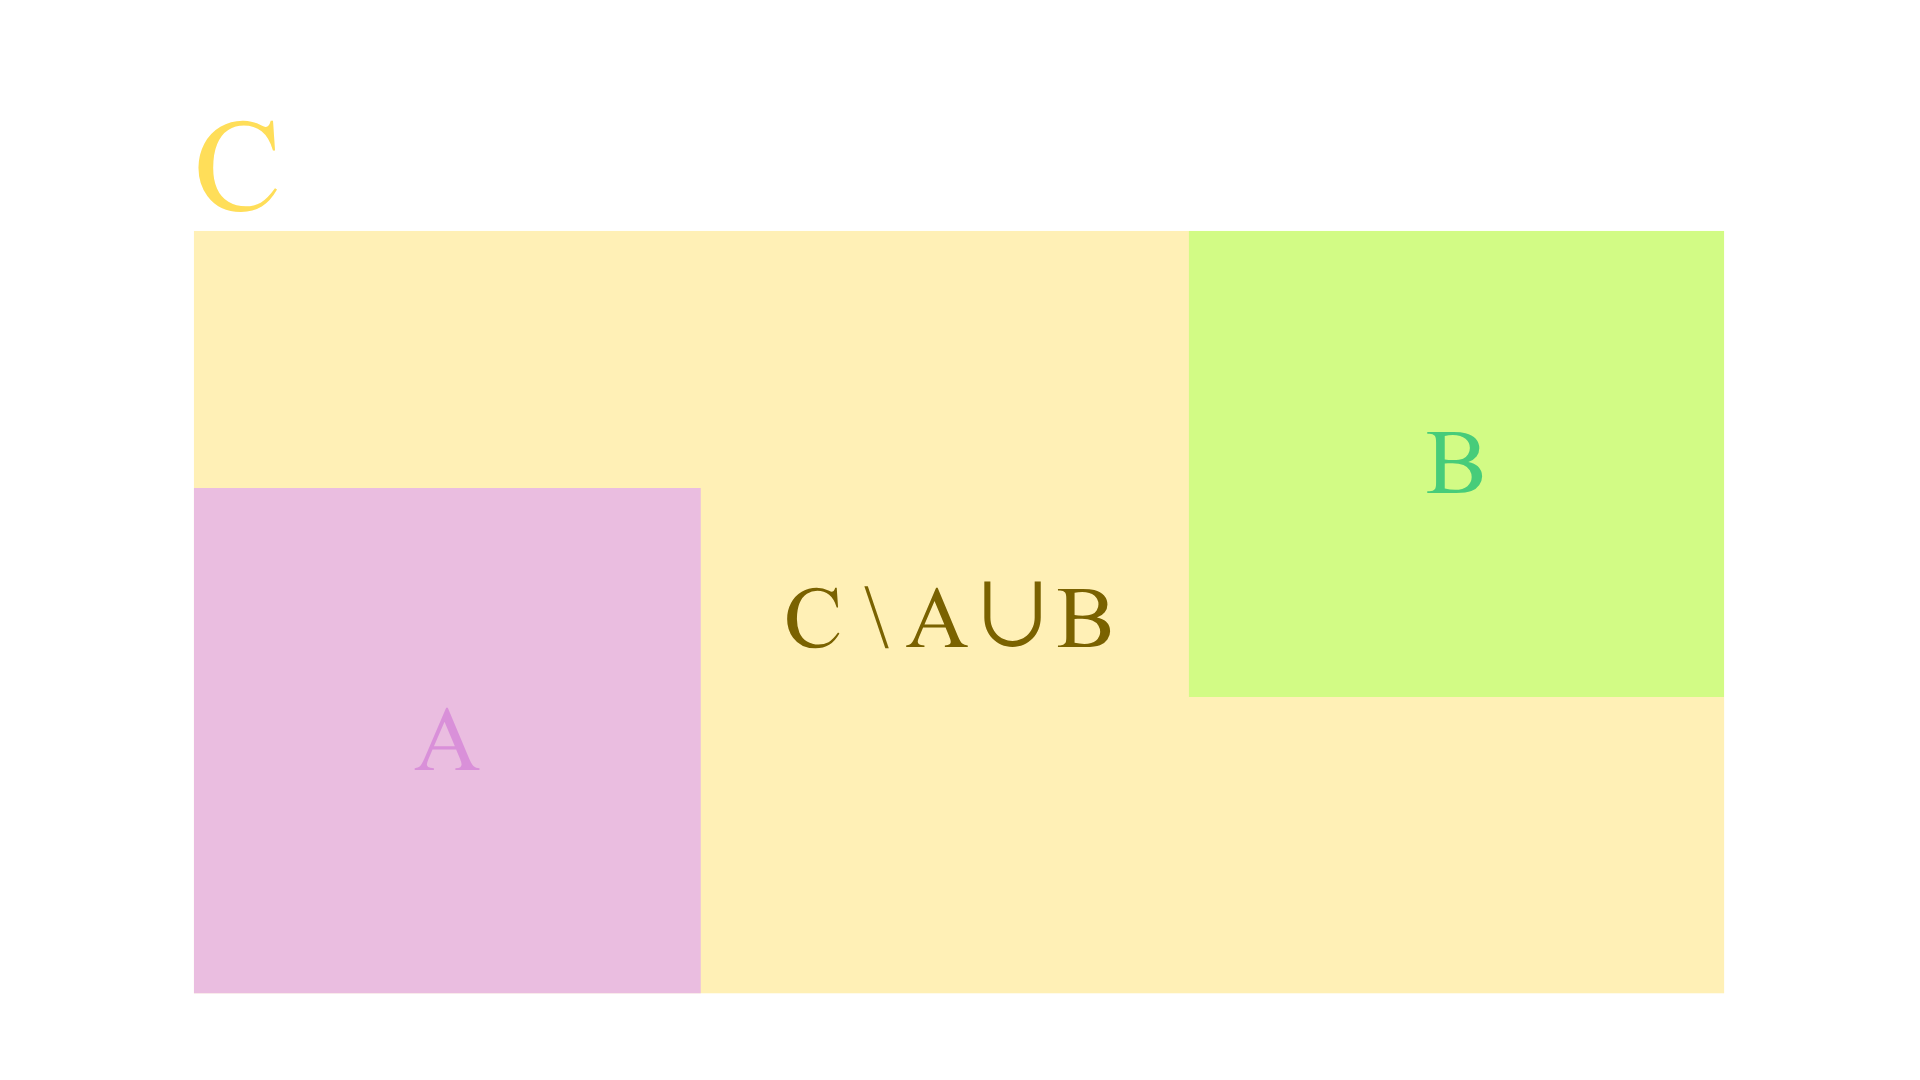
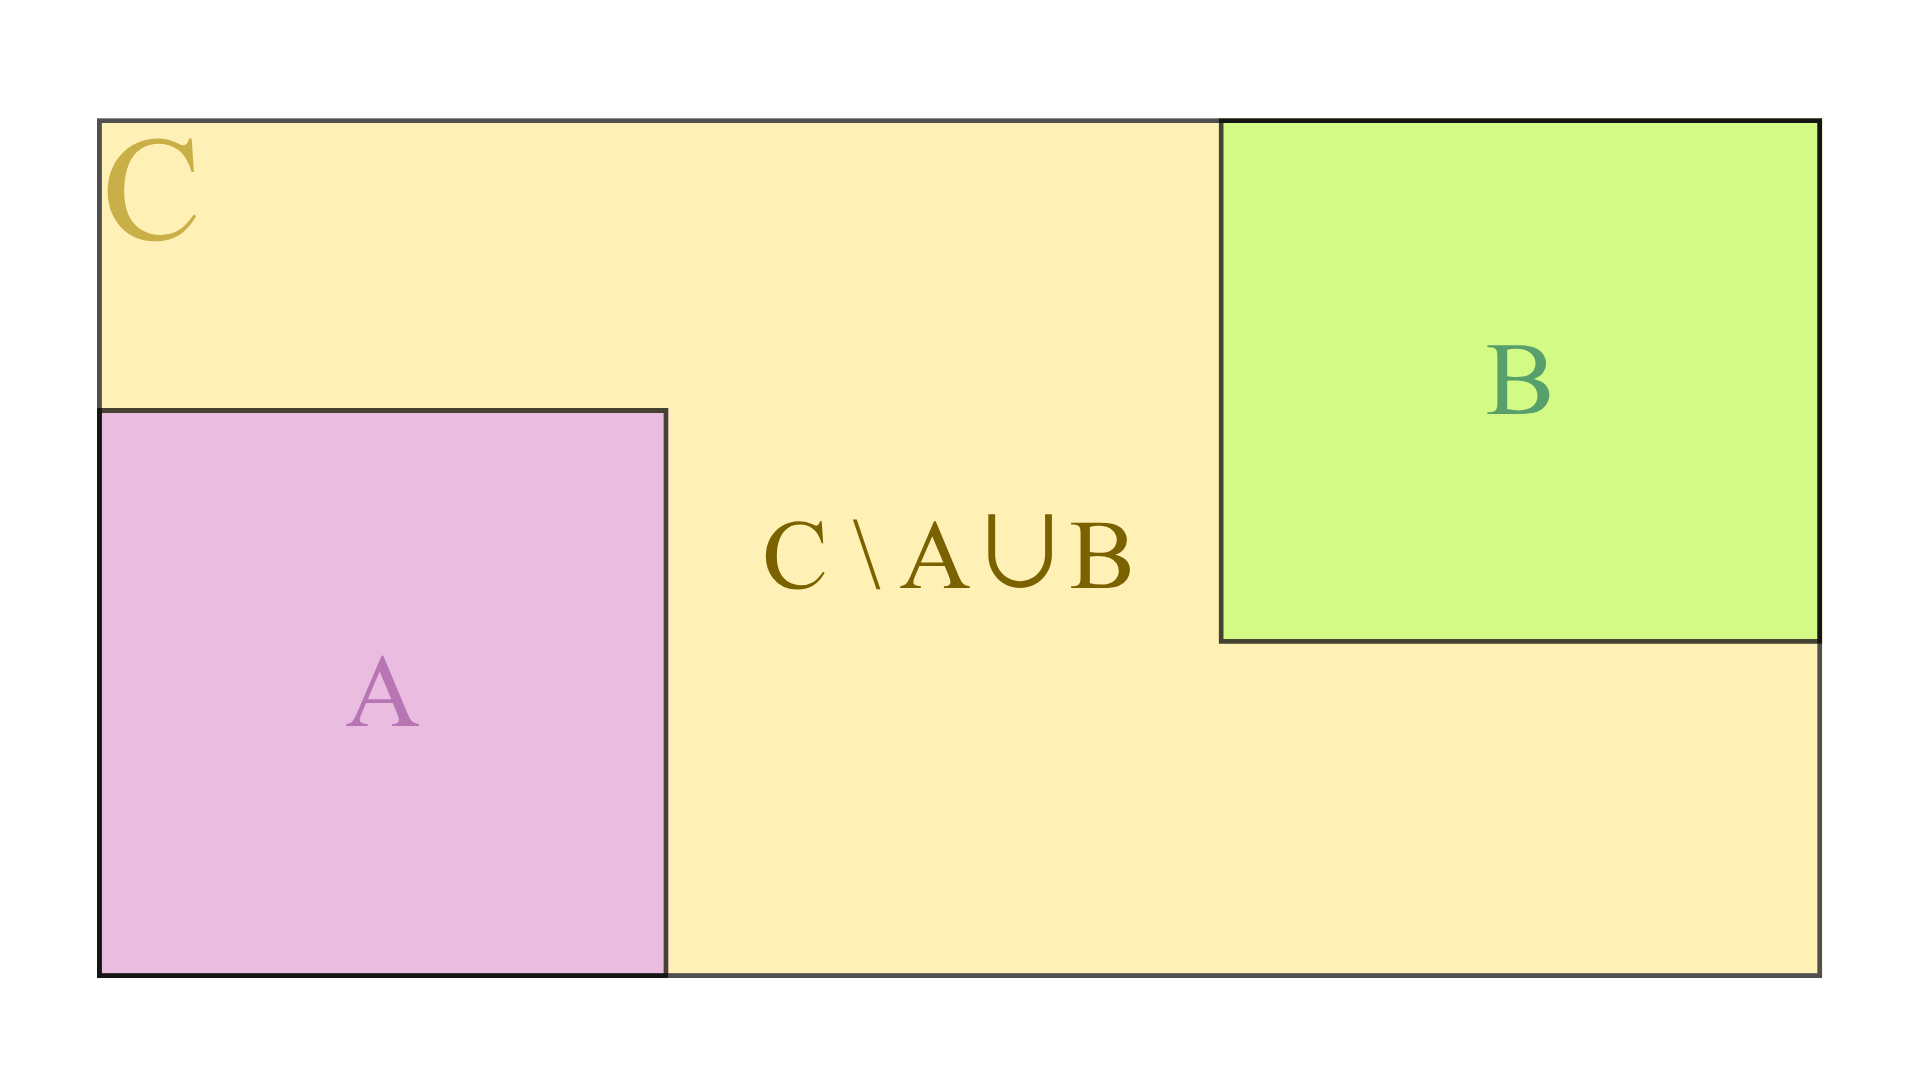
updated iou guid with Tomasz's feedback and new figures

diff --git a/docs/learn/iou.md b/docs/learn/iou.md
@@ -1,7 +1,7 @@
 # IoU variants
 
-IoU variants are pluggable similarity metrics used during detection-to-track
-association. You pass one of these classes to a tracker via the `iou=` argument.
+IoU variants are pluggable similarity metrics used during the detection-to-track
+association. You pass one of these classes to a tracker via the `iou` argument.
 
 ## Quick Start
 
@@ -22,7 +22,7 @@ tracker = SORTTracker(
 | `IoU`   | `[0, 1]`    | Default — strong baseline for most scenes                              |
 | `GIoU`  | `[-1, 1]`   | Scenes where boxes frequently lose overlap (occlusion, re-entry)       |
 | `DIoU`  | `[-1, 1]`   | Fast-moving objects; centre-distance signal without aspect sensitivity |
-| `CIoU`  | `(−∞, 1]`   | Same as DIoU plus aspect-ratio consistency                             |
+| `CIoU`  | `(−2, 1]`   | Same as DIoU plus aspect-ratio consistency                             |
 | `BIoU`  | `[0, 1]`    | Very small or very fast objects where raw boxes rarely overlap         |
 
 Negative thresholds are meaningful for `GIoU`, `DIoU`, and `CIoU` because they extend their range to give a signal even when there is no pixel overlap.
@@ -36,7 +36,9 @@ Negative thresholds are meaningful for `GIoU`, `DIoU`, and `CIoU` because they e
 \[
 \mathrm{IoU}(A, B) = \frac{|A \cap B|}{|A \cup B|}
 \]
-
+<figure class="iou-variant-figure">
+  <img src="../../assets/IoU%20variants/IoU%20visualization.png" alt="GIoU visualization" loading="lazy" decoding="async"/>
+</figure>
 Scores are `0` (no overlap) to `1` (perfect overlap). Because it returns `0` whenever
 boxes do not intersect, the tracker gets no gradient to recover a lost track; a
 variant from the list below can help in those cases.
@@ -52,7 +54,7 @@ tracker = SORTTracker(iou=IoU(), minimum_iou_threshold=0.3)
 
 ## GIoU
 
-**Generalised IoU** (Rezatofighi et al., 2019) — penalises the gap inside the
+**Generalised IoU** ([Rezatofighi et al., 2019](https://arxiv.org/abs/1902.09630)) — penalises the gap inside the
 smallest enclosing box `C` that neither `A` nor `B` fills.
 
 \[
@@ -64,8 +66,8 @@ smallest enclosing box `C` that neither `A` nor `B` fills.
 </figure>
 
 When boxes do not overlap at all, IoU is flat at `0`, but the penalty term still
-changes as boxes move closer or farther apart — giving the tracker a meaningful
-signal to bridge short gaps.
+changes as boxes move closer or farther apart, giving the tracker a meaningful
+signal based on distances, sizes and shapes.
 
 ```python
 from trackers import OCSORTTracker
@@ -82,7 +84,7 @@ tracker = OCSORTTracker(iou=GIoU(), minimum_iou_threshold=-0.3)
 | Best IoU  |    73.07 |          — |
 | Best GIoU |    89.31 | **+16.24** |
 
-Left: IoU. Right: GIoU. Camera movements introduce an unpredicted displacement, producing ID-switches when using IoU based association. GIoU gives a potential solution to this by still giving a signal when there is no overlap by considering the size and position of the boxes are, which keeps most of the tracks that with IoU are confused or lost due direction changes and non linear motion (e.g. tracks 5, 12 (left) / 13 (right)).
+Left: IoU. Right: GIoU. Camera movements introduce an unpredicted displacement, producing ID-switches when using IoU based association. GIoU helps to this by still giving a signal when there is no overlap by considering the size and position of the boxes are, which keeps most of the tracks that with IoU are confused or lost due to direction changes and non linear motion (e.g. tracks `5, 12 (left) / 13 (right)`).
 
 <video width="100%" controls muted loop>
   <source src="../../assets/iou_vs_GIoU_v_0kUtTtmLaJA_c006.mp4" type="video/mp4">
@@ -92,7 +94,7 @@ Left: IoU. Right: GIoU. Camera movements introduce an unpredicted displacement, 
 
 ## DIoU
 
-**Distance IoU** (Zheng et al., 2019) — adds a centre-distance penalty to IoU,
+**Distance IoU** ([Zheng et al., 2019](https://arxiv.org/abs/1911.08287)) — adds a centre-distance penalty to IoU,
 normalised by the enclosing box diagonal.
 
 \[
@@ -121,7 +123,7 @@ tracker = OCSORTTracker(iou=DIoU(), minimum_iou_threshold=-0.3)
 | Best IoU  |    73.07 |          — |
 | Best DIoU |    86.53 | **+13.46** |
 
-Left: IoU. Right: DIoU. Highly non linear motion makes IoU drop to zero between frames, so nearby trajectories get confused. The centre-distance term keeps a smoother score and preserves IDs more often (e.g. tracks 3–5).
+Left: IoU. Right: DIoU. Highly non linear motion can make IoU drop to zero, so the Kalman prediction can fall in another object and produces a switch. The centre-distance term keeps a smoother score and preserves IDs more often (e.g. `tracks 3–5`).
 
 <video width="100%" controls muted loop>
   <source src="../../assets/iou_vs_DIoU_v_0kUtTtmLaJA_c006.mp4" type="video/mp4">
@@ -131,7 +133,7 @@ Left: IoU. Right: DIoU. Highly non linear motion makes IoU drop to zero between 
 
 ## CIoU
 
-**Complete IoU** (Zheng et al., 2019) — extends DIoU with a penalty for aspect-ratio
+**Complete IoU** ([Zheng et al., 2019](https://arxiv.org/abs/1911.08287)) — extends DIoU with a penalty for aspect-ratio
 mismatch between the two boxes.
 
 \[
@@ -144,8 +146,8 @@ v = \frac{4}{\pi^2}\!\left(\arctan\frac{w_A}{h_A} - \arctan\frac{w_B}{h_B}\right
 \]
 
 `v` measures aspect-ratio divergence; `α` scales it so the penalty is low when IoU
-is already high. On tracking benchmarks CIoU and DIoU behave nearly identically —
-the aspect term rarely changes which assignment wins.
+is already high. On tracking benchmarks CIoU and DIoU behave similarly.
+
 
 ```python
 from trackers import OCSORTTracker
@@ -171,7 +173,7 @@ Left: IoU. Right: CIoU. In this example, CIoU is capable of perfectly keeping th
 
 ## BIoU
 
-**Buffered IoU** (Yang et al., 2022) — dilates each box by a relative margin `r`
+**Buffered IoU** ([Yang et al., 2022](https://arxiv.org/abs/2211.14317)) — expands each box by a relative margin `r`
 before computing standard IoU. Let `w = x2 − x1`, `h = y2 − y1`:
 
 \[
@@ -217,10 +219,10 @@ that gap and keeps the same ID. (e.g. tracks 7 and 8).
 ## IoU Variant Performance Across Benchmarks
 
 We evaluate how much each variant changes performance across datasets.
-For each `(dataset, tracker)` pair, we keep the `state_estimator` with the highest **IoU HOTA** on the val/test split (including `xcycwh` where applicable, e.g. BoT-SORT), then report mean
+For each `(dataset, tracker)` pair, we keep the `state_estimator` with the highest **IoU HOTA** on the evaluation split, then report mean
 `ΔHOTA = HOTA(variant) − HOTA(IoU)` over trackers (same split; thresholds tuned per experiment).
 
-For more information on the datasets see: [dataset comparison](../trackers/comparison.md)
+For more information on the datasets, see: [dataset comparison](../trackers/comparison.md).
 
 <!-- Positive value  = green, negative = red,  |delta| < 0.1 = yellow  -->
 
@@ -256,9 +258,9 @@ For more information on the datasets see: [dataset comparison](../trackers/compa
 | DanceTrack val |         50.27 |     <span class="delta neg">−0.80</span> |     <span class="delta neg">−0.34</span> | <span class="delta neutral">+0.05</span> | <span class="delta pos">+0.15</span> |
 | SoccerNet test |         83.21 |     <span class="delta pos">+1.57</span> |     <span class="delta pos">+2.82</span> |     <span class="delta pos">+2.76</span> | <span class="delta pos">+1.41</span> |
 
-Over SportsMOT and SoccerNet all IoU variants perform better than standard IoU, with DIoU and CIoU strongest on SoccerNet and DIoU slightly ahead of CIoU on SportsMOT. In MOT17, standard IoU is the best one by a small margin (DIoU and CIoU match each other here). On DanceTrack, GIoU and DIoU underperform IoU, while CIoU and BIoU perform slightly better.
+Over SportsMOT and SoccerNet, all IoU variants perform better than standard IoU, with DIoU and CIoU being the strongest on SoccerNet and DIoU slightly ahead of CIoU on SportsMOT. In MOT17, standard IoU is the best one by a small margin (DIoU and CIoU match each other here). On DanceTrack, GIoU and DIoU underperform IoU, while CIoU and BIoU perform slightly better.
 
-What we find in these experiments is that IoU variants seem to give better performance depending on the task, performing visbly better on sports like football. We hypothesize that detection quality have an impact on IoU variants, because SoccerNet provides perfect detections, and SportsMOT has detections from a very accurate detector, and they are both the ones where we got the biggest increase. To check this, we run a new experiment, where we use the ground truths boxes from MOT17 and SportsMOT as the detections that are the input for the tracker. 
+What we find in these experiments is that IoU variants seem to give better performance depending on the task, performing visbly better on sports like football. We hypothesize that detection quality has an impact on IoU variants, because SoccerNet provides perfect detections, and SportsMOT has detections from a very accurate detector, and they are both the ones where we got the biggest increase. To check this, we run a new experiment, where we use the ground truths boxes from MOT17 and SportsMOT as the detections that are the input for the tracker. 
 
 | Dataset (GT-as-det) | IoU mean HOTA |                   GIoU mean Δ |                   DIoU mean Δ |                   CIoU mean Δ |                   BIoU mean Δ |
 | :------------------ | ------------: | ----------------------------: | ----------------------------: | ----------------------------: | ----------------------------: |
@@ -266,9 +268,9 @@ What we find in these experiments is that IoU variants seem to give better perfo
 | SportsMOT val       |         87.18 |     <span class="delta pos">+0.47</span> |     <span class="delta pos">+1.09</span> |     <span class="delta pos">+1.06</span> |     <span class="delta pos">+0.46</span> |
 
 
-With GT detections, mean ΔHOTA increases for three of four variants on SportsMOT vs YOLOX detections; on MOT17, deltas shrink toward zero and BIoU becomes positive on average, while other variants stay slightly below IoU. That is consistent with cleaner inputs: the Kalman predictions align better with detections, so association metrics that use more than plain overlap can help more.
+With GT detections, mean ΔHOTA increases for three of four variants on SportsMOT vs YOLOX detections; on MOT17, ΔHOTA  shrinks for GIoU (being better coming from a negative ΔHOTA), becomes slightly more negative for DIoU and CIoU and BIoU becomes positive on average, while other variants stay slightly below IoU. That is consistent with cleaner inputs: the Kalman predictions align better with detections, so association metrics that use more than plain overlap can help more.
 
-We found that the ΔHOTA was even bigger in 3 out of 4 variants in SportsMOT (making IoU variants advantage bigger) and in MOT17 the difference becomes smaller, where BIoU gives even a positive performance always. This makes sense, a better detection makes the Kalman Filter estimate a better track location and then associating using additional information other than the intersection and union will give better matches
+We observed that ΔHOTA increased for 3 out of 4 variants on SportsMOT (highlighting the benefit of IoU variants). On MOT17, the performance gap narrows, and in some cases BIoU yields a positive ΔHOTA (where it was previously negative). This suggests that higher quality detections can lead to more accurate Kalman filter estimates, and also enabling association metrics that incorporate additional information beyond intersection and union to provide better matches.
 
 ---
 
